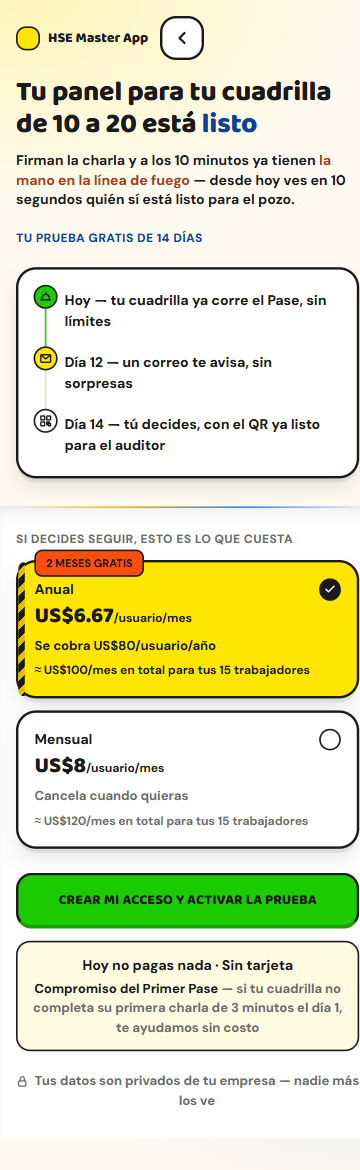
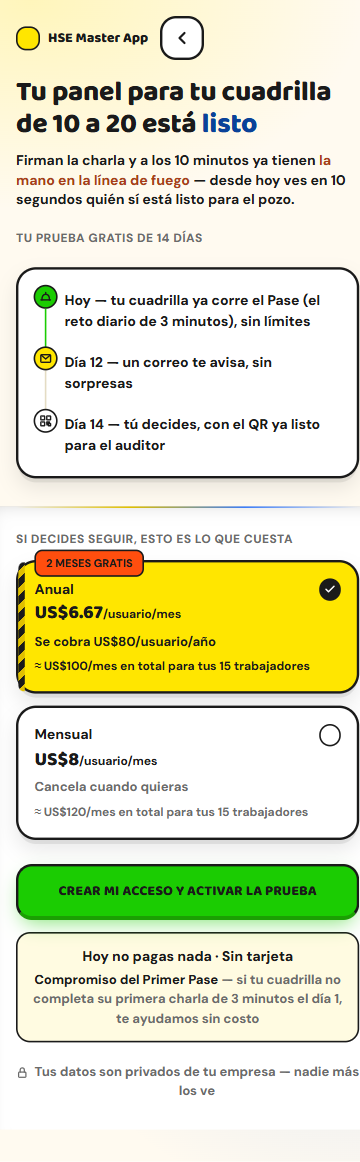
Sesion 4: corrige los defectos de la ronda 13 en paywall
El CTA verde gana un halo con tinte del mismo color para separarse
del fondo blanco. El handler del CTA queda envuelto en try/catch con
un mensaje visible si algo falla al continuar, en vez de un fallo
silencioso. "El Pase" se aclara entre parentesis en su primera
mencion en esta pantalla. El precio de cada plan baja de 22 a 19px
para no competir con el titular. Las 2 etiquetas tipo eyebrow se
unifican al mismo gris.

diff --git a/paywall.html b/paywall.html
@@ -49,6 +49,8 @@
   .pw-headline em { font-style: normal; color: var(--azul-sombra); }
   .pw-emocion { margin-top: 10px; font-size: 14px; font-weight: 700; color: var(--ink); line-height: 1.4; }
   .pw-emocion b { color: var(--rojo-texto); }
+  .pw-error { margin-top: 8px; font-size: 13px; font-weight: 700; color: var(--rojo-texto); text-align: center; display: none; }
+  .pw-error.show { display: block; }
 
   .pw-bloque { background: var(--surface); border: 3px solid var(--ink); border-radius: 20px; padding: 20px; margin-top: 20px;
                box-shadow: 0 6px 0 -2px rgb(26 26 26 / 0.08), 0 10px 20px rgb(26 26 26 / 0.1); }
@@ -77,7 +79,7 @@
   .pw-panel::before { content: ''; position: absolute; top: 0; left: 16px; right: 16px; height: 2px;
                        background: linear-gradient(90deg, transparent, var(--amarillo-sombra), var(--azul), transparent); }
   .pw-planes-tit { font-size: 12px; font-weight: 800; text-transform: uppercase; letter-spacing: 0.04em; color: var(--ink-2); }
-  .pw-dias-tit { margin-top: 20px; font-size: 12px; font-weight: 800; text-transform: uppercase; letter-spacing: 0.04em; color: var(--azul-sombra); }
+  .pw-dias-tit { margin-top: 20px; font-size: 12px; font-weight: 800; text-transform: uppercase; letter-spacing: 0.04em; color: var(--ink-2); }
   .pw-planes { margin-top: 12px; display: flex; flex-direction: column; gap: 12px; }
   .pw-plan { border: 3px solid var(--ink); border-radius: 20px; padding: 16px; position: relative; background: var(--surface); cursor: pointer;
              box-shadow: 0 6px 0 -2px rgb(26 26 26 / 0.08), 0 10px 20px rgb(26 26 26 / 0.1); }
@@ -92,7 +94,7 @@
                   border-radius: 8px; padding: 4px 10px; font-size: 11px; font-weight: 800; }
   .pw-plan .fila { display: flex; align-items: baseline; justify-content: space-between; }
   .pw-plan .nombre { font-weight: 800; font-size: 14px; }
-  .pw-plan .precio { font-family: var(--font-display); font-size: 22px; font-weight: 800; }
+  .pw-plan .precio { font-family: var(--font-display); font-size: 19px; font-weight: 800; }
   .pw-plan .precio small { font-size: 12px; font-weight: 700; font-family: var(--font-body); }
   .pw-plan .nota { margin-top: 4px; font-size: 13px; font-weight: 700; color: var(--ink-2); }
   .pw-plan .total { margin-top: 6px; font-size: 12px; font-weight: 700; color: var(--ink-2); }
@@ -109,7 +111,8 @@
   .pw-cta-wrap { margin-top: 24px; }
   .pw-boton { width: 100%; height: 56px; border-radius: 16px; border: 3px solid var(--ink); background: var(--verde);
               color: var(--ink); font-family: var(--font-display); font-weight: 800; font-size: 14px; text-transform: uppercase;
-              letter-spacing: 0.01em; cursor: pointer; border-bottom: 4px solid var(--verde-sombra); }
+              letter-spacing: 0.01em; cursor: pointer; border-bottom: 4px solid var(--verde-sombra);
+              box-shadow: 0 8px 20px -6px color-mix(in oklab, var(--verde) 55%, transparent); }
   .js-motion .pw-boton { transition: transform 120ms ease, border-bottom-width 120ms ease; }
   .pw-boton:active { border-bottom-width: 3px; transform: translateY(3px); }
   .pw-garantia { margin-top: 12px; padding: 12px 14px; border: 2px solid var(--ink); border-radius: 14px;
@@ -141,7 +144,7 @@
     <div class="pw-linea">
       <div class="riel"><span class="nodo icono"><svg viewBox="0 0 24 24" fill="none" stroke="currentColor" stroke-width="2.6" stroke-linecap="round" stroke-linejoin="round"><path d="M3.5 17.5h17"/><path d="M5 17.5Q5 7 12 7Q19 7 19 17.5"/><path d="M12 7V4"/></svg></span><span class="conector"></span></div>
       <div class="contenido">
-        <p class="titulo">Hoy — tu cuadrilla ya corre el Pase, sin límites</p>
+        <p class="titulo">Hoy — tu cuadrilla ya corre el Pase (el reto diario de 3 minutos), sin límites</p>
       </div>
     </div>
     <div class="pw-linea">
@@ -184,6 +187,7 @@
 
   <div class="pw-cta-wrap pw-reveal">
     <button type="button" class="pw-boton" id="pwActivar">Crear mi acceso y activar la prueba</button>
+    <p class="pw-error" id="pwError">Algo falló al continuar — inténtalo de nuevo o recarga la página.</p>
     <div class="pw-garantia">
       <p class="pw-reversibilidad">Hoy no pagas nada · Sin tarjeta</p>
       <p class="pw-garantia-txt"><b>Compromiso del Primer Pase</b> — si tu cuadrilla no completa su primera charla de 3 minutos el día 1, te ayudamos sin costo</p>
@@ -262,9 +266,13 @@
     });
 
     document.getElementById('pwActivar').addEventListener('click', () => {
-      const elegido = document.querySelector('.pw-plan.elegido');
-      try { sessionStorage.setItem('hsePlanElegido', elegido ? elegido.dataset.plan : 'anual'); } catch {}
-      window.location.href = 'login.html';
+      try {
+        const elegido = document.querySelector('.pw-plan.elegido');
+        try { sessionStorage.setItem('hsePlanElegido', elegido ? elegido.dataset.plan : 'anual'); } catch {}
+        window.location.href = 'login.html';
+      } catch (err) {
+        document.getElementById('pwError').classList.add('show');
+      }
     });
 
     // "Volver" regresa al paso exacto donde iba el usuario en vez de reiniciar el recorrido:

diff --git a/ESTADO.md b/ESTADO.md
@@ -1,7 +1,7 @@
 # ESTADO — HSE Master App
 Última actualización: 2026-10-17 | Sesión actual: 4
 
-⏸ CHECKPOINT — Sesión 4 (onboarding, paywall), ronda 12 de ambas YA ENTREGADA y YA CORREGIDA (sin relanzar ronda 13 todavía). Onboarding ronda 12: usabilidad 32/40 (bajó de 37 — oscilación normal entre jueces independientes, no una regresión real de código), craft 16/20 (PASA el umbral por primera vez). Paywall ronda 12: usabilidad 32/40, craft 17/20 (PASA), copy 19/20 (PASA) — con esta ronda el paywall tiene craft Y copy sosteniendo el umbral; solo falta usabilidad. Fixes de paywall: el botón "volver" ahora intenta `history.back()` primero (vuelve al paso EXACTO donde iba el usuario, no solo al último guardado) y cae al href normal (que igual resume por sessionStorage) si no hay historial — este defecto venía repitiéndose porque el revisor solo lee paywall.html y no ve la lógica de resume que vive en onboarding.html; ahora la propia paywall.html muestra la solución sin depender del otro archivo; se agrega el rótulo explícito "Tu prueba gratis de 14 días" arriba del timeline (antes solo se inferÍa sumando Día 12 + Día 14); se fusionan la línea de reversibilidad y la garantía en un solo bloque jerarquizado (bold arriba, detalle abajo) en vez de 3 mensajes de confianza sueltos y redundantes; las tarjetas de plan ganan feedback `:active` (scale 0.98) igual que el CTA. Fixes de onboarding: la marca de agua del casco en el paso 1 sube de 8% a 16% de opacidad y de 110 a 140px (seguía leyéndose como hueco vacío); el microcopy gris sobre los encabezados de color (azul/rojo) bajaba de 4.5:1 de contraste → gana su propio tono más oscuro (#565656) solo dentro de `.onb-encabezado`; la barra de progreso gana semántica ARIA real (`role="progressbar"`, `aria-valuenow`) + un `aria-live` que anuncia "Paso X de 5" en cada transición; la nota de cuadrillas del paso 1 sube de 13 a 14px para no sumar un 4º tamaño de fuente a la pantalla; el círculo de check sin seleccionar sube de 2px a 3px de borde, la firma de todo el kit.
+⏸ CHECKPOINT — Sesión 4 (onboarding, paywall), ronda 13 de paywall YA ENTREGADA y YA CORREGIDA; onboarding ronda 13 sigue en segundo plano. Paywall ronda 13: usabilidad 30/40, craft 14/20, copy 19/20 (PASA 3 rondas seguidas). Fixes: el CTA verde ganó un halo/sombra con tinte del mismo verde para separarse del fondo blanco (el revisor midió ~2.17:1 contra el relleno, aunque el borde de 3px ya daba el contraste real del límite del botón); se envolvió el handler del CTA en try/catch con un mensaje visible (`#pwError`) por si algo falla al continuar, en vez de un fallo silencioso; "el Pase" se aclara entre paréntesis ("el reto diario de 3 minutos") en su primera mención en esta pantalla, para quien aterriza directo aquí sin pasar por onboarding; el precio de cada plan baja de 22 a 19px para no competir en peso visual con el titular; las 2 etiquetas tipo "eyebrow" (planes/días) se unifican al mismo gris, antes una era azul sin razón visible. Próximo paso: cuando llegue el veredicto de onboarding ronda 13, corregirlo, commitear y relanzar la ronda 14.
 veredicto:landing — 24 rondas de revisión independiente corregidas con mejora real y medible (usabilidad 27→30, craft 12-14 oscilando). Sigue NO LISTA. Las correcciones restantes que el revisor pide (bajar de 4 a 2 acentos de color en toda la pantalla, variar el gesto de botón, rotar el amarillo más allá de lo que preserva "gold") chocan con decisiones ya aprobadas por el usuario (FICHA-ARTE.md, cosa juzgada) — documentadas abajo como razonadas, no pendientes sueltas. El único camino para subir más el puntaje de craft/identidad es que el USUARIO decida si quiere tocar esas decisiones aprobadas, no que el agente seguro siga iterando solo. defecto "cero estados de error en el funnel" sigue DELIBERADAMENTE sin resolver: no hay backend/checkout real todavía (Sesión 6, cualquier error sería fabricado). El footer legal ya NO dice "(pendiente)" con jerga interna (corregido en ronda 19 → "(próximamente)", lenguaje de cliente) pero las 3 páginas legales siguen sin redactarse de verdad — eso se resuelve en la sesión aparte de este sistema (47-LEGAL-FISCAL-Y-PRIVACIDAD.md). La promesa de "reembolso de 7 días" se QUITÓ de la landing (ronda 23) hasta que exista FICHA-MERCADO.md con el plazo real verificado contra Hotmart — ninguno bloquea esta pantalla puntual.
 
 ## Qué es esta app (3 líneas máximo)
@@ -105,7 +105,7 @@ Plataforma móvil B2B de microaprendizaje gamificado (estilo Duolingo) para capa
   5. [Método] El screenshot de evidencia es de página completa muy reescalada (360×8711) y no permite verificar encaje óptico fino — si se retoma el pulido, conviene agregar recortes a resolución nativa de las secciones clave.
   Las demás tensiones de fondo (paleta multicolor, gesto de botón, falta de testimonios, mailto sin backend, footer legal) siguen siendo decisiones razonadas y documentadas por separado abajo, no parte de esta lista.
 - veredicto:onboarding — 12 rondas de revisión independiente (30→31→32→28→28→33→29→31→28→31→37→32/40 usabilidad; craft 10→12→12→10→13→14→16→15→14→14→13→16/20). Ambos ejes cruzaron el umbral al menos una vez (usabilidad en la 11, craft en la 12) pero nunca juntos en la misma ronda todavía — se necesita una ronda donde ambos pasen a la vez para declarar lista. docs/revisiones/onboarding-veredicto.md en disco es el de la ronda 12. No se declara lista hasta leer el veredicto de la ronda 13.
-- veredicto:paywall — 12 rondas de revisión independiente (31→35→35→32→31→31→29→34→30→33→32→32/40 usabilidad; craft 14→12→15→14→13→14→15→18→14→14→15→17/20; copy 17→16→17→16→17→17→16→18→17→18→18→19/20). Craft y copy sostienen el umbral; falta solo usabilidad (32/40, necesita ≥36). docs/revisiones/paywall-veredicto.md en disco es el de la ronda 12. No se declara lista hasta leer el veredicto de la ronda 13.
+- veredicto:paywall — 13 rondas de revisión independiente (31→35→35→32→31→31→29→34→30→33→32→32→30/40 usabilidad; craft 14→12→15→14→13→14→15→18→14→14→15→17→14/20; copy 17→16→17→16→17→17→16→18→17→18→18→19→19/20). Copy sostiene el umbral 3 rondas seguidas; craft osciló debajo otra vez; usabilidad sigue siendo el eje que nunca cruzó el umbral en esta pantalla. docs/revisiones/paywall-veredicto.md en disco es el de la ronda 13. No se declara lista hasta leer el veredicto de la ronda 14.
 - agente-crasheo-pero-escribio-veredicto — la ronda 11 de onboarding reportó "failed" por límite de uso de la cuenta, pero el archivo de veredicto en disco está completo y bien formado (no cortado a mitad). Antes de asumir que hay que retomar un agente con SendMessage, conviene leer el archivo de veredicto: si ya quedó completo, ese es el resultado válido de la ronda y no hace falta relanzar ni retomar nada.
 - metodologia-sessionStorage-entre-pantallas — la ronda 10 de onboarding detectó que una captura "oficial" de evidencia (paso 1) en realidad mostraba el paso 4, porque sessionStorage con respuestas de una prueba anterior (usada para ver el total de la cuadrilla en paywall) hacía que el auto-resume de onboarding.html saltara de más al recargar la página para el screenshot. Desde ahora: SIEMPRE `sessionStorage.clear()` antes de navegar a onboarding.html para capturar su paso 1, ya que esta app (a diferencia de landing/paywall) cambia de pantalla según lo que haya guardado.
 - cinco-opciones-reto-onboarding — RESUELTO en la ronda 4: la pregunta "¿cuál es tu reto más urgente?" tenía 5 chips de igual peso (4 dolores reales + "Otra cosa"), sobre el límite genérico de 4 del gate de carga cognitiva. En vez de solo documentar la tensión (como se hizo en rondas 1-3), se bajó "Otra cosa" a un enlace de texto secundario debajo de los 4 chips reales — conserva el escape hatch obligatorio de `50-DISENO-ONBOARDING-PAYWALL.md` → A2 ("el último ítem SIEMPRE es 'Otra cosa'") sin que compita en peso visual con los 4 dolores reales de FICHA-AVATAR.md. Los 4 chips siguen intactos (ninguno es relleno).

diff --git a/docs/revisiones/paywall-veredicto.md b/docs/revisiones/paywall-veredicto.md
@@ -1,15 +1,14 @@
 # VEREDICTO revisor-visual — paywall
 Fecha: 2026-10-17 00:00
 Screenshot: docs/revisiones/paywall-375.png
-Usabilidad: 32/40
-Craft: 17/20
+Usabilidad: 30/40
+Craft: 14/20
 Copy (si vende): 19/20
 Fidelidad (si hubo referencia): N-A
 Veredicto: NO LISTA
-
 Top defectos:
-1. [paywall.html línea 127] El botón "volver" (`<a href="onboarding.html">`) reinicia todo el recorrido de bienvenida en vez de regresar al último paso donde iba el usuario — rompe control y libertad (heurística 3, verificado en código) → Fix: guardar el último paso visto en sessionStorage y que `onboarding.html` reanude ahí, o usar `history.back()`.
-2. [paywall.html líneas 133-154] La duración real de la prueba (14 días) nunca se declara explícita y directamente — solo se infiere sumando "Día 12" + "Día 14" del timeline, obligando al usuario a hacer el cálculo (heurística 2/8) → Fix: agregar un rótulo visible tipo "Prueba gratis de 14 días" junto al headline o como título del bloque timeline.
-3. [paywall.html líneas 182-190] Tres mensajes de confianza consecutivos y parcialmente redundantes ("Hoy no pagas nada · Sin tarjeta" / "Compromiso del Primer Pase" / "Tus datos son privados...") saturan el cierre de la pantalla y diluyen cuál es el mensaje más importante (heurística 8, estético y minimalista) → Fix: fusionar reversibilidad + garantía en un solo bloque jerarquizado (título + 1 línea) y dejar la nota de privacidad aparte.
-4. [paywall.html líneas 81-105 y 247-256] Las tarjetas de plan (`.pw-plan`) solo cambian color/check al elegirlas — no tienen ningún `:active`/feedback de "hundimiento" que confirme el toque en el instante del clic, a diferencia del CTA que sí responde (craft eje movimiento) → Fix: agregar `transform: scale(0.98)` en `:active` a `.pw-plan` para igualar el estándar de feedback táctil de toda pieza tocable.
-5. [FICHA-ARTE.md líneas 30-32, reflejado en paywall.html CSS `.pw-boton`/`.pw-plan`] El mecanismo visual completo (bordes gruesos negros + botón "presionable" con border-bottom + tipografía chunky + bloques de color funcional) replica casi en su totalidad la gramática visual de Duolingo más allá del hue ya rotado — documentado y aprobado por el usuario, pero sigue leyéndose como clon de mecánica de una app con marca propia (craft eje identidad) → No corregible sin reabrir la ficha (cosa juzgada); se deja constancia para decisión del usuario, no se fuerza el cambio.
+1. [CTA primario, paywall.html L110-114 vs L75 `.pw-panel { background: var(--surface) }`] El botón verde (#1bcc02) mide ~2.17:1 de contraste contra el blanco inmediato del panel (#ffffff), por debajo del mínimo 3:1 exigido al CTA héroe (solo se distingue por el borde negro de 3px, no por el relleno) → oscurecer el verde de fondo (ej. un tono ~#149600) o envolver el botón en un halo/superficie con tinte que eleve el contraste medido del relleno, sin depender solo del borde.
+2. [Heurística 9 — errores con solución, paywall.html L241-243 y L264-268] No existe ningún aviso visible al usuario si falla el guardado en sessionStorage (ej. navegación privada que lo bloquea) o si la navegación a login.html no ocurre tras el click en "Crear mi acceso..."; el único manejo es un fallback silencioso de texto → agregar un mensaje breve (toast o inline) si el guardado/la navegación fallan, en vez de fallar en silencio.
+3. [Heurística 2 — lenguaje del usuario, paywall.html L144 "tu cuadrilla ya corre el Pase, sin límites"] "el Pase" se usa como nombre propio sin definirlo en esta pantalla; un usuario que entra aquí directo (link compartido, retomar sesión) no sabe qué es → añadir una aclaración breve entre paréntesis en la primera mención ("el Pase, la charla+examen diario") o un tooltip.
+4. [Craft Eje 1 — jerarquía, paywall.html L48 `.pw-headline{font-size:28px}` vs L95 `.pw-plan .precio{font-size:22px}`] El precio del plan (22px, misma familia display Baloo 2 bold) casi iguala el peso visual del titular (28px), diluyendo el salto de 4 niveles al entrecerrar los ojos → bajar el precio a ~18-19px o reforzar el salto headline→precio.
+5. [Heurística 4 — consistencia, paywall.html L79 `.pw-planes-tit{color:var(--ink-2)}` vs L80 `.pw-dias-tit{color:var(--azul-sombra)}`] Dos etiquetas de sección del mismo tipo (eyebrow uppercase 12px) reciben tratamiento de color distinto sin razón visible en el screenshot (una gris, otra azul) → unificar el color de las etiquetas de sección o documentar la excepción en FICHA-ARTE.md si es intencional.
